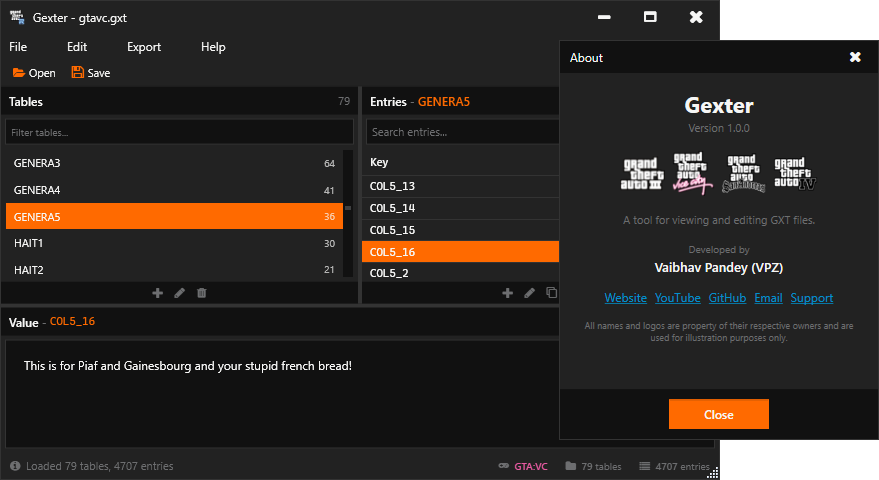
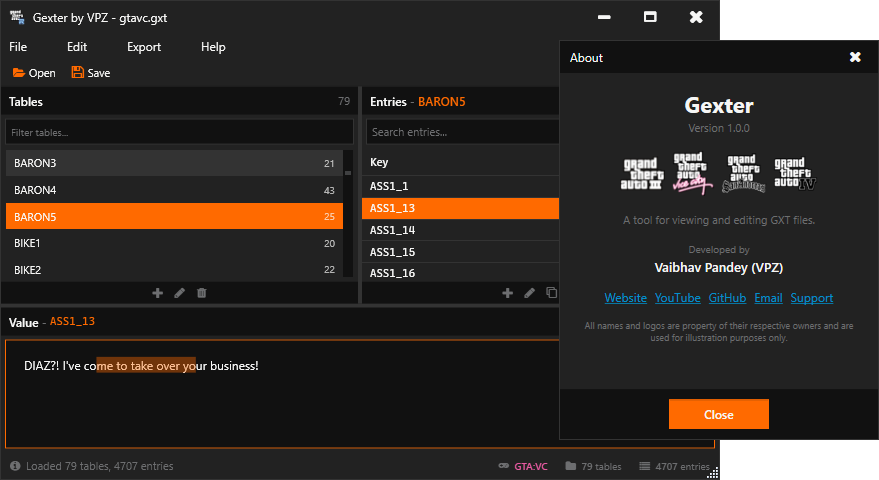
Update screenshot.

diff --git a/Gexter.Desktop/ViewModels/MainViewModel.cs b/Gexter.Desktop/ViewModels/MainViewModel.cs
@@ -14,7 +14,7 @@ public partial class MainViewModel : ObservableObject
     private string? _currentFilePath;
 
     [ObservableProperty]
-    private string _windowTitle = "Gexter - GXT Editor";
+    private string _windowTitle = "Gexter by VPZ";
 
     [ObservableProperty]
     private string _statusMessage = "Ready";
@@ -156,7 +156,7 @@ public partial class MainViewModel : ObservableObject
         SelectedEntry = null;
         GameName = string.Empty;
         GameColor = System.Windows.Media.Brushes.Gray;
-        WindowTitle = "Gexter - GXT Editor";
+        WindowTitle = "Gexter by VPZ";
         StatusMessage = "Ready";
     }
 
@@ -486,7 +486,7 @@ public partial class MainViewModel : ObservableObject
                 SelectedTable = FilteredTables[0];
             }
 
-            WindowTitle = $"Gexter - {Path.GetFileName(filePath)}";
+            WindowTitle = $"Gexter by VPZ - {Path.GetFileName(filePath)}";
             StatusMessage = $"Loaded {TotalTables} tables, {TotalEntries} entries";
         }
         catch (Exception ex)
